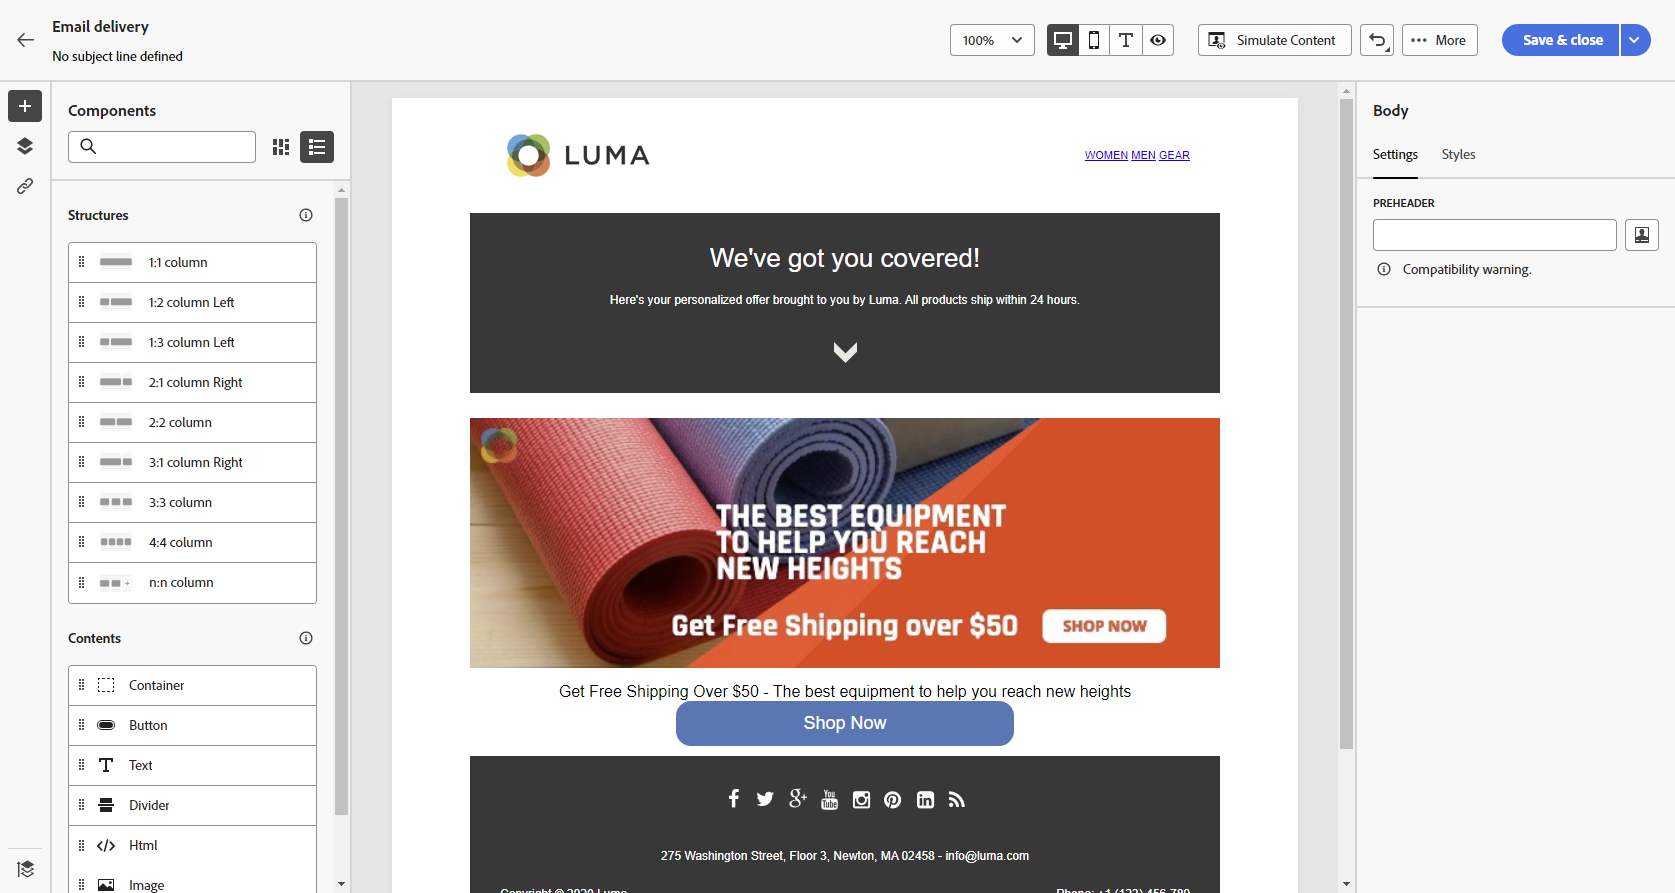
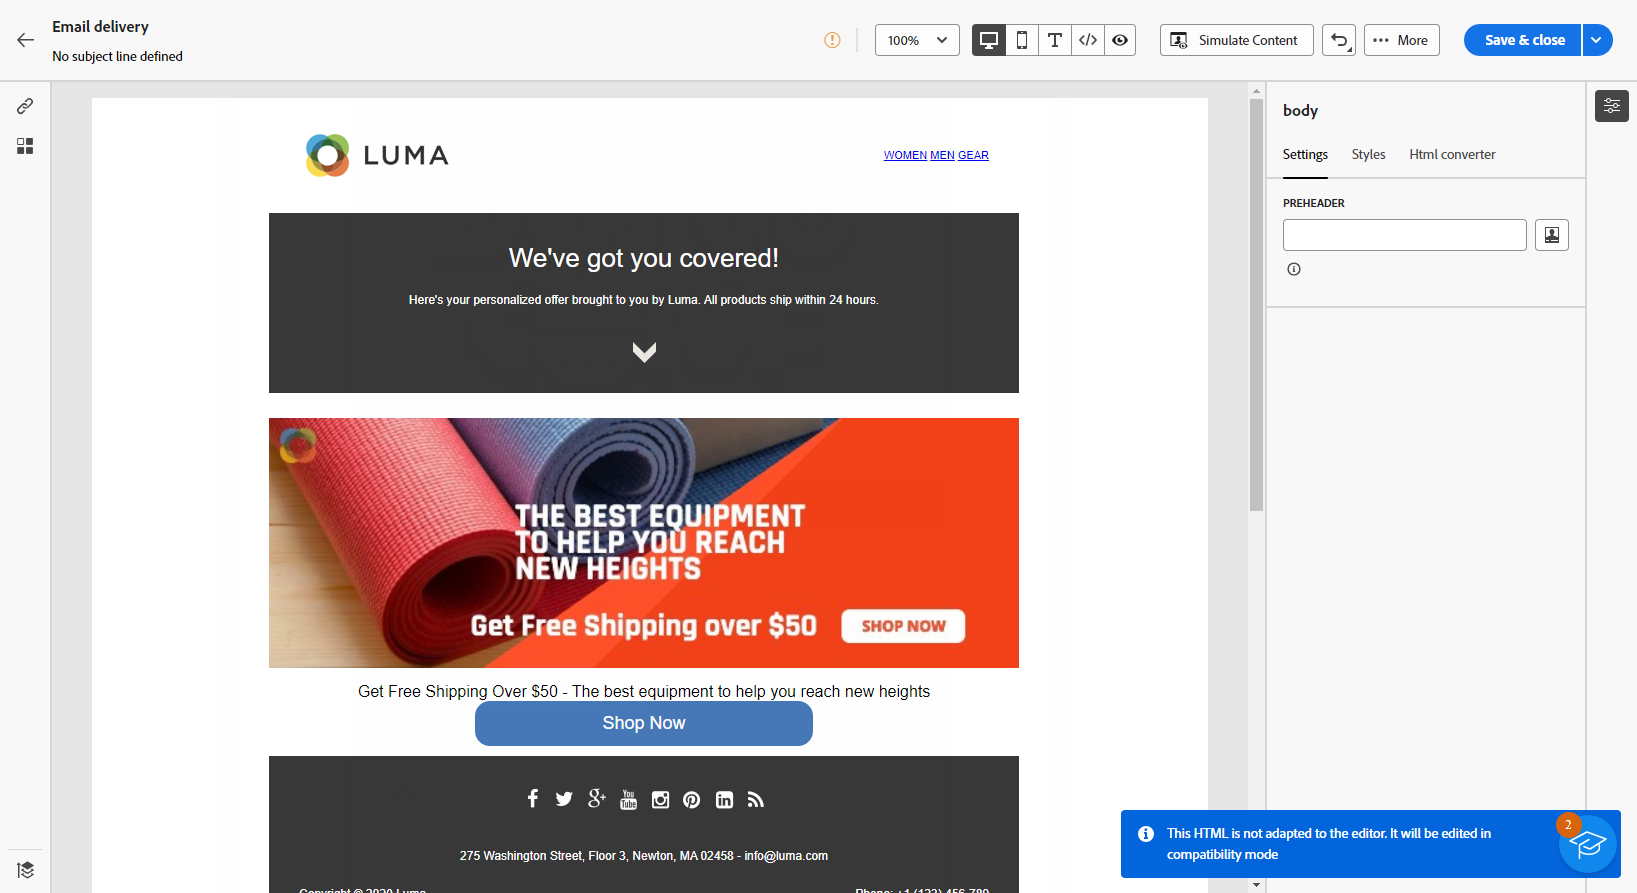
report recurring + html Import

diff --git a/help/v8/content/existing-content.md b/help/v8/content/existing-content.md
@@ -30,6 +30,19 @@ To import a file containing HTML content, follow the steps below:
 
 1. Drag and drop the HTML or .zip file containing your HTML content and click **[!UICONTROL Import]**.
 
-1. Once the HTML content is uploaded, you can leverage the Email Designer capabilities to edit and preview your email. [Learn more ](create-email-content.md)
+1. Once the HTML content is uploaded, your content will be in **[!UICONTROL Compatibility mode]**. 
+
+    In this mode, you can only personalize your text, add links, or include assets to your content.
 
     ![](assets/html-imported.png)
+
+1. To be able to leverage the Email Designer content components, access the **[!UICONTROL HTML converter]** tab and click **[!UICONTROL Convert]**.
+
+    ![](assets/html-imported-2.png)
+
+    >[!NOTE]
+    >
+    > Using a `<table>` tag as the first layer in an HTML file can cause style loss, including background and width settings in the top layer tag.
+
+1. You can now personalize your imported file as needed with the Email Designer functionalities [Learn more](content-from-scratch.md).
+

diff --git a/help/v8/reporting/delivery-reports.md b/help/v8/reporting/delivery-reports.md
@@ -21,4 +21,8 @@ To display reports, follow these steps:
 
     ![](assets/reporting.png)
 
+1. If your delivery is recurring, you can select a specific delivery to report on by clicking **[!UICONTROL Select deliveries]**. 
 
+    You can also apply a time period to your report by selecting the **[!UICONTROL Contact date]**.
+
+    ![](assets/delivery-recurring.png)
